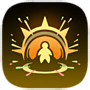
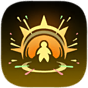
Added images for all the core boons. Tidied up the front so that core boons show up nicely with a frame and other boons just list afterwards.

diff --git a/src/App.js b/src/App.js
@@ -1,42 +1,104 @@
 import { useState } from 'react';
 import { useEffect } from 'react';
+import { useRef } from 'react';
 
 import './App.css';
 
-function BoonPanel({boonName}) {
+function SmartImage({ src, fallback, style }) {
+  const ref = useRef();
+
+  function handleFallback() {
+    // Nullify the error event for subsequent calls
+    ref.current.onError = null;
+    ref.current.src = fallback;
+  }
+
+  return <img ref={ref} src={src} onError={handleFallback} class="BoonImage"/>;
+}
+
+function BoonPanel({boonName, boonRarity="Common"}) {
   
   return (
-    <div className="BoonPanel">
-      <img src={`img/${boonName}.png`} />
+    <div
+      className="BoonPanel"
+      style={!boonName.startsWith("Empty") ? {
+        border: "10px solid transparent",
+        borderImage: `url(\"img/Frame${boonRarity}.png\")`,
+        borderImageSlice: "25",
+        borderImageWidth: "25px",
+        borderImageRepeat: "fill",
+        position: "relative",
+        width: "78px",
+        height: "78px",
+      } : {
+        position: "relative",
+        width: "88px",
+        height: "88px",
+        left: "5px"
+      }}>
       
-    </div>
+        <SmartImage
+          src={`img/${boonName}.png`}
+          fallback="img/DefaultBoon.png"
+        />
+      </div>   
   );
 }
 
 function App() {
-  const [boons, setBoons] = useState("")
   const [isSubscribed, setSubscribed] = useState(false)
+
+  const [allBoons, setAllBoons] = useState({})
 
   useEffect(() => {
     if (!isSubscribed) {
       setSubscribed(true);
       var twitch = window.Twitch.ext;
       twitch.listen("broadcast", function(target, contentType, message) {
-        setBoons(message);
+        setAllBoons(JSON.parse(message));
         console.log(message);
       });
     }
   });
   
-
   return (
     <div className="App">
       <ul>
-        {boons.split(" ").map((boon) => 
+        <li>
+          <BoonPanel
+            boonName={"weaponBoon" in allBoons ? allBoons.weaponBoon.name : "EmptyWeaponBoon"}
+            boonRarity={"weaponBoon" in allBoons ? allBoons.weaponBoon.rarity : ""}
+          />
+        </li>
+        <li>
+          <BoonPanel
+            boonName={"specialBoon" in allBoons ? allBoons.specialBoon.name : "EmptySpecialBoon"}
+            boonRarity={"specialBoon" in allBoons ? allBoons.specialBoon.rarity : ""}
+          />
+        </li>
+        <li>
+          <BoonPanel
+            boonName={"castBoon" in allBoons ? allBoons.castBoon.name : "EmptyCastBoon"}
+            boonRarity={"castBoon" in allBoons ? allBoons.castBoon.rarity : ""}
+          />
+        </li>
+        <li>
+          <BoonPanel
+            boonName={"sprintBoon" in allBoons ? allBoons.sprintBoon.name : "EmptySprintBoon"}
+            boonRarity={"sprintBoon" in allBoons ? allBoons.sprintBoon.rarity : ""}
+          />
+        </li>
+        <li>
+          <BoonPanel
+            boonName={"manaBoon" in allBoons ? allBoons.manaBoon.name : "EmptyManaBoon"}
+            boonRarity={"manaBoon" in allBoons ? allBoons.manaBoon.rarity : ""}
+          />
+        </li>
+        {allBoons.otherBoons != null ? allBoons.otherBoons.map((boon) => 
           <li>
-            <BoonPanel boonName={boon} />      
+            <BoonPanel boonName={boon.name} boonRarity={boon.rarity} />      
           </li>
-        )}
+        ) : ""}
       </ul>
       
     </div>

diff --git a/src/App.css b/src/App.css
@@ -24,6 +24,16 @@
   color: white;
 }
 
+.BoonImage {
+  width: 100%;
+  height: auto;
+  display: block;
+  position: absolute;
+  top: 0;
+  left: 0;
+  z-index: -1;
+}
+
 .App-link {
   color: #61dafb;
 }
@@ -35,4 +45,9 @@
   to {
     transform: rotate(360deg);
   }
+}
+
+ul
+{
+  list-style-type: none;
 }

diff --git a/tools/check_images.py b/tools/check_images.py
@@ -1,0 +1,20 @@
+# we use this script to make sure that all images are the correct size
+# currently we are looking for all boons to be 88x88 and frames 108x108
+
+# to run the scirpt, just provide the image path at CLI, or as first input
+
+import sys
+import os
+from PIL import Image
+
+if len(sys.argv) > 1:
+    image_path = sys.argv[1]
+else:
+    image_path = input("Please input image directory path: ")
+
+if not image_path.endswith(os.sep):
+    image_path = image_path + os.sep
+
+for img_file in os.listdir(image_path):
+    img = Image.open(image_path + img_file)
+    print(img_file + ": " + str(img.size))
